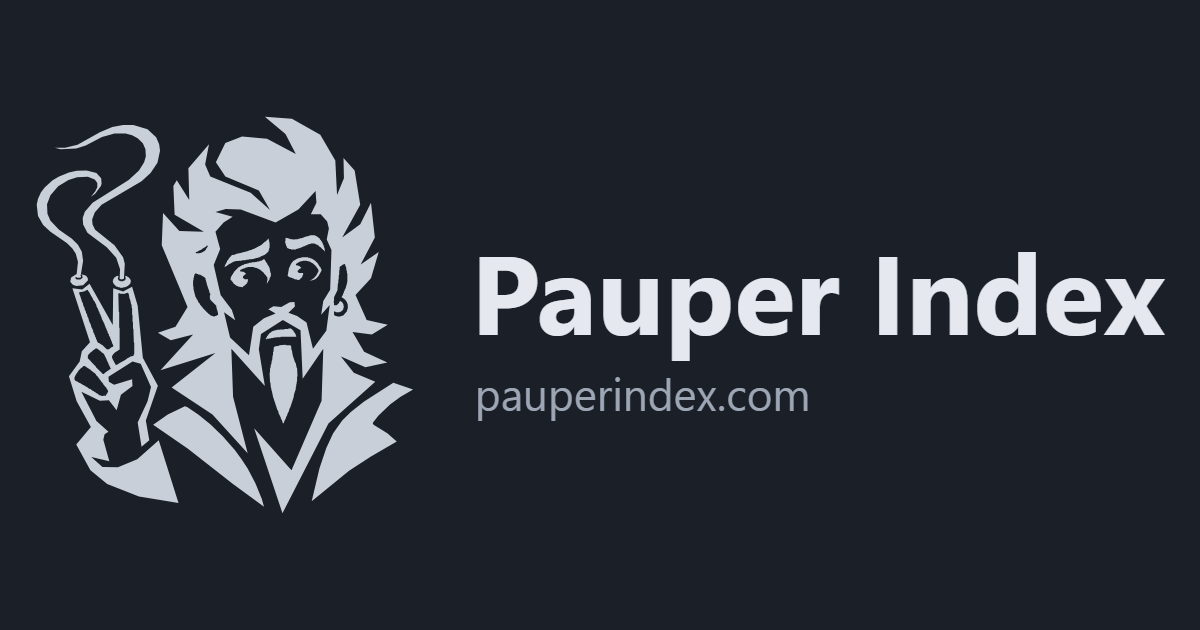
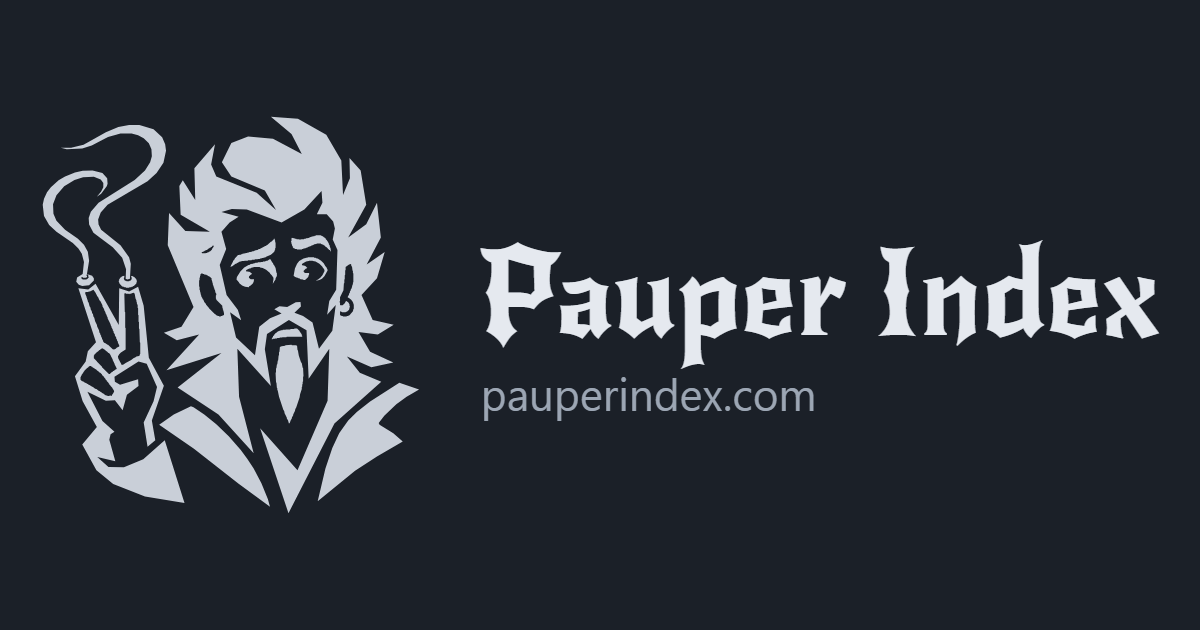
Testata: "Carta dimenticata" come pulsante compatto; nome del sito in New Rocker
- "Carta dimenticata": pulsante pieno e in rilievo con piumino e ragnatela, etichetta breve
  sotto i 400 px, premuto sulla propria pagina; "Informazioni" link discreto.
- Nome "Pauper Index" in New Rocker (SIL OFL 1.1) solo nel titolo e nell'og-image:
  ridotto ai caratteri del nome e rinominato "Pauper Index Title" (Reserved Font Name),
  servito dal sito con la licenza in public/fonts/; CSP invariata.

Changed region(s): [[0.0308, 0.2111, 0.3392, 0.8143], [0.4008, 0.3921, 0.9867, 0.6635], [0.185, 0.181, 0.2775, 0.2413]]

diff --git a/web/src/style.css b/web/src/style.css
@@ -39,15 +39,42 @@ a{color:var(--accent)}
 .num{font-variant-numeric:tabular-nums}
 .note{color:var(--muted);font-size:.8125rem;margin:6px 0 0}
 
+/* nome del sito: New Rocker (SIL OFL 1.1) ridotto ai caratteri di "Pauper Index" e rinominato
+   (Reserved Font Name), servito dal sito; licenza in public/fonts/OFL-NewRocker.txt */
+@font-face{font-family:"Pauper Index Title";src:url("/fonts/pauper-index-title.woff2") format("woff2");font-weight:400;font-style:normal;font-display:swap}
+
 /* testata */
 .top{display:flex;justify-content:space-between;align-items:center;gap:12px;flex-wrap:wrap}
 h1{font-size:clamp(1.75rem,4.5vw,2.5rem);line-height:1;letter-spacing:-0.03em;font-weight:700;margin:0}
 h1 a{color:inherit;text-decoration:none}
+.home .brand{font-family:"Pauper Index Title",var(--font);font-weight:400;letter-spacing:.01em}
 .home{display:inline-flex;align-items:center;gap:.28em}
 .logo{width:1.2em;height:1.2em;flex:none;color:var(--logo)}
 .nav{display:flex;gap:4px;align-items:center;font-size:.9375rem}
-.nav a{font-weight:500;padding:6px}
-.nav a[aria-current="page"]{color:var(--ink);text-decoration-thickness:2px;text-underline-offset:4px}
+.nav{gap:6px}
+/* "Informazioni": link discreto */
+.navlink{font-weight:500;padding:6px;color:var(--muted);text-decoration:none}
+.navlink:hover,.navlink[aria-current="page"]{color:var(--ink);text-decoration:underline;text-decoration-thickness:2px;text-underline-offset:4px}
+/* "Carta dimenticata": pulsante compatto nello stile del pulsante grande della pagina */
+.navdust{position:relative;overflow:hidden;display:inline-flex;align-items:center;gap:6px;min-height:38px;padding:5px 16px 5px 10px;margin:0 4px 4px 0;
+  border-radius:10px;text-decoration:none;font-weight:650;white-space:nowrap;color:var(--accent-ink);
+  background:linear-gradient(180deg,color-mix(in srgb,var(--accent) 82%,#fff) 0%,var(--accent) 55%,color-mix(in srgb,var(--accent) 88%,#000) 100%);
+  box-shadow:0 3px 0 var(--btn-ledge),0 7px 14px -8px rgba(10,20,40,.55),inset 0 1px 0 rgba(255,255,255,.3);transition:transform .08s,box-shadow .08s,filter .15s}
+.navdust:hover{filter:brightness(1.07)}
+.navdust:active,.navdust[aria-current="page"]{transform:translateY(2px);box-shadow:0 1px 0 var(--btn-ledge),0 4px 8px -6px rgba(10,20,40,.5),inset 0 1px 0 rgba(255,255,255,.25)}
+.navdust:focus-visible{outline:3px solid var(--ink);outline-offset:3px}
+.nd-ico{width:20px;height:20px;flex:none;overflow:visible;transform-origin:3px 21px}
+.nd-ico .handle{fill:none;stroke:currentColor;stroke-width:2.2;stroke-linecap:round}
+.nd-ico .collar{fill:none;stroke:currentColor;stroke-width:3.4;stroke-linecap:round}
+.nd-ico .plume{fill:currentColor}
+.nd-ico .p2{opacity:.8}
+.nd-ico .p3{opacity:.65}
+.nd-web{position:absolute;top:0;right:0;width:20px;height:20px;transform:scaleX(-1);pointer-events:none;fill:none;stroke:var(--btn-web);stroke-width:1.1;stroke-linecap:round}
+.nd-short{display:none}
+.navdust:hover .nd-web{animation:nd-sway 1.4s ease-in-out infinite alternate;transform-origin:100% 0}
+.navdust:hover .nd-ico{animation:duster-wiggle .7s ease-in-out}
+@keyframes nd-sway{from{transform:scaleX(-1) rotate(-4deg)}to{transform:scaleX(-1) rotate(5deg) scale(1.06)}}
+@media (prefers-reduced-motion: reduce){.navdust:hover .nd-web,.navdust:hover .nd-ico{animation:none}.navdust{transition:none}}
 .langs{display:inline-flex}
 .langs .btn{padding-inline:6px;min-width:34px;justify-content:center}
 .langs .btn[aria-pressed="true"]{color:var(--ink);font-weight:700;text-decoration:underline;text-underline-offset:3px}
@@ -401,8 +428,8 @@ details.mini[open]{flex-basis:100%;background:var(--surface);border:1px solid va
   .search{margin-left:0;width:100%}
   .top{flex-wrap:wrap;row-gap:2px}
   h1{font-size:1.625rem;white-space:nowrap}
-  .nav{font-size:.875rem;flex-wrap:wrap;row-gap:0;margin-left:-6px}
-  .nav a{white-space:nowrap}
+  .nav{font-size:.875rem;flex-wrap:wrap;row-gap:4px;margin-left:0;margin-top:6px}
+  .navdust{min-height:40px}
   .nav .btn{white-space:nowrap}
   .f-field:first-child{flex:1;min-width:0}
   .f-field:first-child select{flex:1;min-width:0;width:100%}
@@ -424,6 +451,10 @@ details.mini[open]{flex-basis:100%;background:var(--surface);border:1px solid va
   .sheet-body{grid-template-columns:1fr}
   .active-card img{max-width:min(240px,60vw)}
   .fan-item img{width:64px}
+}
+@media (max-width:400px){
+  .nd-full{display:none}
+  .nd-short{display:inline}
 }
 @media (max-width:640px){
   .cards thead{display:none}

diff --git a/web/e2e/smoke.spec.ts b/web/e2e/smoke.spec.ts
@@ -45,6 +45,11 @@ test('lingua del browser, testi statici, area di caricamento, filtri e lista, co
   await expect(page.locator(`[data-lang="${L}"]`)).toHaveAttribute('aria-pressed', 'true');
   await expect(page.locator('meta[http-equiv="Content-Security-Policy"]')).toHaveCount(1);
   await expect(page.locator('h1')).toHaveText('Pauper Index');
+  // nome del sito in New Rocker ridotto, servito dal sito (con la licenza); il resto della pagina nel font di sistema
+  expect(await page.locator('h1 .brand').evaluate((el) => getComputedStyle(el).fontFamily)).toContain('Pauper Index Title');
+  expect(await page.locator('#verdict').evaluate((el) => getComputedStyle(el).fontFamily)).not.toContain('Pauper Index Title');
+  expect(await page.evaluate(async () => (await document.fonts.load('400 40px "Pauper Index Title"', 'Pauper Index')).length)).toBe(1);
+  expect((await page.request.get('fonts/OFL-NewRocker.txt')).ok()).toBe(true);
   await expect(page).toHaveTitle('Pauper Index');
   await expect(page.locator('#navAbout')).toHaveText(tr('nav.about'));
   await expect(page.locator('#drop strong')).toHaveText(tr('load.dropTitle'));
@@ -605,7 +610,16 @@ test('"Carta dimenticata": pagina dalla testata, scena, animazione che poi spari
   const problems = await setup(page);
   // non è più nella zona del controllo rapido
   await expect(page.locator('#quick #dustBtn')).toHaveCount(0);
-  await expect(page.locator('#navDust')).toHaveText(tr('nav.dust'));
+  await expect(page.locator('#navDust')).toHaveAccessibleName(tr('nav.dust'));
+  // nella testata è un pulsante compatto (pieno di colore, con icona e ragnatela), "Informazioni" un link discreto
+  await expect(page.locator('#navDust .nd-ico')).toHaveCount(1);
+  await expect(page.locator('#navDust .nd-web')).toHaveCount(1);
+  expect(await page.locator('#navDust').evaluate((el) => getComputedStyle(el).backgroundImage)).toContain('gradient');
+  expect(await page.locator('#navAbout').evaluate((el) => getComputedStyle(el).backgroundImage)).toBe('none');
+  // etichetta breve solo sugli schermi stretti
+  const short = await page.locator('#navDust .nd-short').isVisible();
+  expect(short).toBe((page.viewportSize()?.width ?? 1280) <= 400);
+  await expect(page.locator('#navDust ' + (short ? '.nd-short' : '.nd-full'))).toHaveText(tr(short ? 'nav.dustShort' : 'nav.dust'));
   await page.click('#navDust');
   await expect(page).toHaveURL(/#carta-dimenticata$/);
   await expect(page.locator('#viewMain')).toBeHidden();
@@ -660,6 +674,9 @@ test('"Carta dimenticata": pagina dalla testata, scena, animazione che poi spari
 test('"Carta dimenticata" con prefers-reduced-motion: la carta appare subito, senza copertura', async ({ page }) => {
   await page.emulateMedia({ reducedMotion: 'reduce' });
   await setup(page);
+  // la ragnatela del pulsante in testata resta ferma al passaggio del mouse
+  await page.hover('#navDust');
+  expect(await page.locator('#navDust .nd-web').evaluate((el) => getComputedStyle(el).animationName)).toBe('none');
   await page.click('#navDust');
   // ragnatele del pulsante ferme anche al passaggio del mouse
   await page.hover('#dustBtn');

diff --git a/web/index.html b/web/index.html
@@ -12,6 +12,7 @@
 <link rel="canonical" href="https://pauperindex.com/">
 <link rel="manifest" href="/manifest.webmanifest">
 <link rel="icon" href="/icon.svg" type="image/svg+xml">
+<link rel="preload" href="/fonts/pauper-index-title.woff2" as="font" type="font/woff2" crossorigin>
 <link rel="apple-touch-icon" href="/apple-touch-icon.png">
 <meta property="og:type" content="website">
 <meta property="og:site_name" content="Pauper Index">
@@ -34,10 +35,21 @@
 <div class="wrap">
 
   <header class="top">
-    <h1><a href="#" class="home"><svg class="logo" aria-hidden="true" focusable="false"><use href="/logo.svg#logo"></use></svg>Pauper Index</a></h1>
+    <h1><a href="#" class="home"><svg class="logo" aria-hidden="true" focusable="false"><use href="/logo.svg#logo"></use></svg><span class="brand">Pauper Index</span></a></h1>
     <nav class="nav" data-i18n-aria="nav.aria" aria-label="Navigazione">
-      <a href="#carta-dimenticata" id="navDust" data-i18n="nav.dust">Carta dimenticata</a>
-      <a href="#informazioni" id="navAbout" data-i18n="nav.about">Informazioni</a>
+      <a href="#carta-dimenticata" id="navDust" class="navdust" data-i18n-aria="nav.dust" aria-label="Carta dimenticata">
+        <svg class="nd-ico" viewBox="0 0 24 24" aria-hidden="true" focusable="false">
+          <path class="handle" d="M3 21.2l6.4-6.4"/>
+          <path class="collar" d="M8.4 13.9l1.9 1.9"/>
+          <path class="plume p1" d="M10.6 13.4C8.9 9 10.7 4.6 15.4 2.3c1 4.6-.8 8.8-4.8 11.1z"/>
+          <path class="plume p2" d="M10.6 13.4c4.4 1.7 8.8 0 11.1-4.8-4.6-1-8.8.8-11.1 4.8z"/>
+          <path class="plume p3" d="M10.6 13.4c.9-4.1 3.9-7.6 8.6-9.1.5 4.2-2.6 7.9-8.6 9.1z"/>
+        </svg>
+        <span class="nd-full" data-i18n="nav.dust">Carta dimenticata</span>
+        <span class="nd-short" data-i18n="nav.dustShort">Dimenticata</span>
+        <svg class="nd-web" viewBox="0 0 26 26" aria-hidden="true" focusable="false"><path d="M1 1L25 1M1 1L18.6 8.1M1 1L15.3 16.4M1 1L7.7 17.7M1 1L1 25M7 1Q5.9 2 6.6 3.2M6.6 3.2Q5.2 3.9 5.1 5.4M5.1 5.4Q3.7 5.3 3.2 6.6M3.2 6.6Q2 5.9 1 7M12 1Q10.1 2.8 11.2 5.1M11.2 5.1Q8.6 6.2 8.5 9M8.5 9Q6 8.8 5.1 11.2M5.1 11.2Q2.8 10.1 1 12M17.5 1Q14.6 3.6 16.3 7.2M16.3 7.2Q12.4 8.9 12.3 13.1M12.3 13.1Q8.4 12.7 7.2 16.3M7.2 16.3Q3.6 14.6 1 17.5"/></svg>
+      </a>
+      <a href="#informazioni" id="navAbout" class="navlink" data-i18n="nav.about">Informazioni</a>
       <span class="langs" role="group" data-i18n-aria="nav.lang" aria-label="Lingua">
         <button class="btn quiet small" type="button" data-lang="it" lang="it" aria-label="Italiano">IT</button>
         <button class="btn quiet small" type="button" data-lang="en" lang="en" aria-label="English">EN</button>

diff --git a/web/src/i18n/en.ts b/web/src/i18n/en.ts
@@ -7,6 +7,7 @@ export const en: Record<Key, Msg> = {
   'nav.aria': 'Navigation',
   'nav.about': 'About',
   'nav.dust': 'Forgotten card',
+  'nav.dustShort': 'Forgotten',
   'nav.lang': 'Language',
   'theme.toDark': 'Dark theme',
   'theme.toLight': 'Light theme',

diff --git a/web/src/i18n/it.ts b/web/src/i18n/it.ts
@@ -9,6 +9,7 @@ export const it = {
   'nav.aria': 'Navigazione',
   'nav.about': 'Informazioni',
   'nav.dust': 'Carta dimenticata',
+  'nav.dustShort': 'Dimenticata',
   'nav.lang': 'Lingua',
   'theme.toDark': 'Tema scuro',
   'theme.toLight': 'Tema chiaro',

diff --git a/web/scripts/title-font.py b/web/scripts/title-font.py
@@ -1,0 +1,49 @@
+"""Font del nome "Pauper Index" (testata e og-image): New Rocker ridotto ai soli caratteri del titolo.
+
+New Rocker è sotto SIL Open Font License 1.1 con Reserved Font Name "New Rocker": la versione ridotta è
+una "Modified Version", quindi il nome interno del font cambia in "Pauper Index Title". Copyright e
+licenza restano nella tabella dei nomi; il testo della licenza è in public/fonts/OFL-NewRocker.txt.
+
+Uso (fonttools non è una dipendenza del progetto: si installa in un ambiente temporaneo):
+    python -m venv <tmp>/ft; <tmp>/ft/Scripts/pip install fonttools brotli
+    <tmp>/ft/Scripts/python web/scripts/title-font.py <NewRocker-Regular.ttf>
+Il file sorgente è https://github.com/google/fonts/blob/main/ofl/newrocker/NewRocker-Regular.ttf
+"""
+
+import sys
+from pathlib import Path
+
+from fontTools import subset
+from fontTools.ttLib import TTFont
+
+TEXT = "Pauper Index"
+FAMILY = "Pauper Index Title"
+OUT = Path(__file__).resolve().parents[1] / "public" / "fonts" / "pauper-index-title.woff2"
+
+
+def main(src: str) -> None:
+    font = TTFont(src)
+    opts = subset.Options()
+    opts.flavor = "woff2"
+    opts.layout_features = ["kern", "liga"]
+    opts.name_IDs = [0, 1, 2, 3, 4, 5, 6, 13, 14]  # copyright, nomi, versione, licenza
+    opts.notdef_outline = True
+    sub = subset.Subsetter(opts)
+    sub.populate(text=TEXT)
+    sub.subset(font)
+    # Reserved Font Name: la versione modificata non può chiamarsi "New Rocker"
+    names = {1: FAMILY, 2: "Regular", 3: f"{FAMILY} Regular; subset", 4: f"{FAMILY} Regular",
+             6: FAMILY.replace(" ", "") + "-Regular"}
+    for rec in list(font["name"].names):
+        if rec.nameID in (16, 17, 21, 22):
+            font["name"].removeNames(nameID=rec.nameID)
+        elif rec.nameID in names:
+            rec.string = names[rec.nameID]
+    OUT.parent.mkdir(parents=True, exist_ok=True)
+    font.save(OUT)
+    left = [r.toUnicode() for r in font["name"].names if "rocker" in r.toUnicode().lower() and r.nameID not in (0, 13, 14)]
+    print(OUT, OUT.stat().st_size, "byte", "nomi con 'New Rocker' fuori da copyright/licenza:", left)
+
+
+if __name__ == "__main__":
+    main(sys.argv[1])

diff --git a/CLAUDE.md b/CLAUDE.md
@@ -31,9 +31,11 @@ La specifica completa è in `docs/SPEC.md`. Questo file registra le decisioni pr
   - [x] "Carica altri" (10 carte alla volta) e "Rispolvera una carta" (vedi le sezioni omonime), prima della funzione 4
   - [x] 2026-10-07: simboli delle espansioni (vedi "Simboli delle espansioni"), stampa del set nella vista per espansione e "Rispolvera" spostata nella pagina "Carta dimenticata"
   - [x] 2026-10-07: riepiloghi coerenti con l'elenco (vedi "Riepiloghi ed elenco") e pulsante "Rispolvera una carta" in rilievo, con le ragnatele
+  - [x] 2026-10-07: "Carta dimenticata" in testata come pulsante compatto (vedi "Testata")
+  - [x] 2026-10-07: nome "Pauper Index" in New Rocker, scelto dall'utente (vedi "Testata")
   - [ ] Funzione 4: mazzi che puoi costruire (vedi "Prossimi passi")
 - **Opzioni tolte su richiesta**: "Escludi terre base" (le terre base sono sempre escluse) e "Conta le copie" (una carta è posseduta se ne hai almeno una copia).
-- **Test** (tutti verdi dopo riepiloghi coerenti e nuovo pulsante, 2026-10-07): 96 pytest, 58 Vitest, 86 Playwright (più 2 saltati di proposito) sui quattro progetti desktop/mobile × IT/EN.
+- **Test** (tutti verdi dopo pulsante in testata e font del nome, 2026-10-07): 96 pytest, 58 Vitest, 86 Playwright (più 2 saltati di proposito) sui quattro progetti desktop/mobile × IT/EN.
 - **Dependabot**: unita la PR #1 (pytest 8.4.2 → 9.1.1), con tutti i test verdi.
 - **Issue**: #4 (test intermittente in CI) chiusa con la correzione del blur nei campi con suggerimenti.
 
@@ -124,6 +126,7 @@ npm run screenshots                  # con preview attivo: schermate in .cache/s
 npm run dust-frames                  # con preview attivo: fotogrammi dell'animazione "Rispolvera" in .cache/screenshots/
 node scripts/feature-shots.mjs <etichetta>   # con preview attivo: espansioni e "Carta dimenticata", desktop/mobile/scuro
 node scripts/dust-button-shots.mjs <etichetta>   # con preview attivo: pulsante "Rispolvera", desktop/mobile, chiaro/scuro
+node scripts/header-shots.mjs <etichetta>        # con preview attivo: testata, desktop/mobile/mobile piccolo, chiaro/scuro, IT/EN, con focus
 npm run icons                        # rigenera logo, favicon, icone PNG e og-image da logo/logo.svg
 
 # Stato della CI
@@ -436,7 +439,7 @@ Tolti: la barra a segmenti (heatmap), la sezione "Cosa conta", i preset a schede
   - inietta la CSP (meta tag) **solo in build**, perché il dev server di Vite usa stili inline.
 
 **Decisioni**:
-- **Font di sistema** al posto di Geist: nessuna richiesta esterna e nessun file di font da servire.
+- **Font di sistema** al posto di Geist: nessuna richiesta esterna. Unica eccezione (2026-10-07): il nome "Pauper Index" in New Rocker ridotto, servito dal sito (vedi "Testata").
 - **CSP**: `default-src 'self'; script-src 'self'; style-src 'self'; img-src 'self' https://cards.scryfall.io data:; connect-src 'self'; font-src 'self'; manifest-src 'self'; worker-src 'none'; object-src 'none'; base-uri 'self'; form-action 'none'`. `<meta name="referrer" content="no-referrer">`, così le richieste di immagini a Scryfall non rivelano la pagina.
 - **Ruoli dei gruppi**: solo "Inclusa" o "Esclusa" (in "Binder inclusi"). Binder di tipo `deck` o `list` sono esclusi di default; il testo incollato è un gruppo "Testo incollato" che conta come posseduto.
 - **Abbinamento di una riga**:
@@ -534,6 +537,22 @@ Tolti: la barra a segmenti (heatmap), la sezione "Cosa conta", i preset a schede
 - **Animazione** (circa 1,5 s, invariata): copertura `.dust-cover` con velo di polvere (rumore SVG), granelli, fiocchi e tre ragnatele generate a caso, spazzati via con una maschera diagonale. Solo elementi sovrapposti: l'immagine non ha mai filtri (regole di Scryfall); a fine animazione la copertura viene rimossa. Parte quando l'immagine è caricata. Con `prefers-reduced-motion` nessuna copertura sulla carta. CSP invariata: i valori casuali passano da `style.setProperty`.
 - Fotogrammi di controllo: `npm run dust-frames` (desktop e mobile, 5 istanti più la fine, dalla pagina `#carta-dimenticata`).
 
+## Testata (2026-10-07)
+
+- **"Carta dimenticata"** (`#navDust`, classe `navdust`) è un pulsante compatto nello stile del pulsante grande della pagina:
+  - pieno di colore, in rilievo (`--btn-ledge`), con l'icona del piumino e una piccola ragnatela fissa nell'angolo in alto a destra (`.nd-web`), che oscilla al passaggio del mouse;
+  - sulla propria pagina appare premuto (`aria-current="page"`);
+  - focus: contorno di 3 px nel colore del testo;
+  - con `prefers-reduced-motion` niente movimento.
+- Nome accessibile da `aria-label` (`nav.dust`). Fino a 400 px di larghezza compare l'etichetta breve (`nav.dustShort`: "Dimenticata" / "Forgotten") al posto di quella piena.
+- **"Informazioni"** (`.navlink`) è un link discreto: colore attenuato, sottolineato solo al passaggio del mouse o sulla propria pagina.
+- **Font del nome: New Rocker** (scelto dall'utente il 2026-10-07 tra Grenze Gotisch, Fruktur, Pirata One, Metal Mania, New Rocker e Germania One; scartati i due Unifraktur, dove la "I" diventa "J").
+  - Usato **solo** per "Pauper Index" nel titolo della testata (`h1 .brand`) e nell'og-image; il resto del sito resta nel font di sistema.
+  - **Licenza**: SIL OFL 1.1 con Reserved Font Name "New Rocker". La versione ridotta è una "Modified Version", quindi il suo nome interno è **"Pauper Index Title"** (anche in CSS) e "New Rocker" compare solo in copyright e licenza. Testo della licenza in `web/public/fonts/OFL-NewRocker.txt`, pubblicato anche nel sito accanto al font.
+  - **File**: `web/public/fonts/pauper-index-title.woff2`, 7,6 KB, con i soli glifi di "Pauper Index" (11, più `.notdef`). Il grosso del peso è il testo della licenza, lasciato dentro il font. Servito dal sito con `font-display: swap` e `<link rel="preload">`; CSP invariata (`font-src 'self'`).
+  - **Rigenerare** (solo se cambia il testo del titolo): `web/scripts/title-font.py` con fonttools in un ambiente virtuale temporaneo (fonttools non è una dipendenza del progetto); sorgente `NewRocker-Regular.ttf` dal repository google/fonts. Il testo da coprire è la costante `TEXT`: un carattere nuovo nel titolo non sarebbe coperto.
+  - **og-image**: `npm run icons` carica lo stesso file con `FontFace` per disegnare "Pauper Index"; "pauperindex.com" resta nel font di sistema.
+
 ## Riepiloghi ed elenco (2026-10-07)
 
 - **Regola**: ogni riepilogo conta esattamente l'insieme che l'elenco può mostrare; se i filtri dell'elenco ne mostrano un altro, lo si dice.
@@ -619,7 +638,7 @@ Tolti: la barra a segmenti (heatmap), la sezione "Cosa conta", i preset a schede
 - **`npm run icons`** (`web/scripts/icons.mjs`) genera tutto da lì, senza dipendenze in più: tracciato compattato (coordinate relative, viewBox ritagliato), PNG disegnate in un canvas di Chromium e salvate come PNG indicizzate con zlib al massimo.
   - `public/logo.svg`: `<symbol id="logo">` con `fill="currentColor"`, usato in testata con `<svg class="logo"><use href="/logo.svg#logo">`; il colore viene da `--logo` (`#555555` chiaro, `#C9CFD8` scuro), quindi segue anche il tema scelto a mano;
   - `public/icon.svg`: favicon con `prefers-color-scheme` (stessi due colori);
-  - `apple-touch-icon.png` (180, quadrato pieno), `icon-192/512.png` (angoli arrotondati), `icon-maskable-512.png` (logo al 56%, dentro l'area sicura), `og-image.png` (1200×630, logo + "Pauper Index" + dominio): tutte su sfondo scuro `#1B2028` con il logo `#C9CFD8`.
+  - `apple-touch-icon.png` (180, quadrato pieno), `icon-192/512.png` (angoli arrotondati), `icon-maskable-512.png` (logo al 56%, dentro l'area sicura), `og-image.png` (1200×630, logo + "Pauper Index" in New Rocker + dominio): tutte su sfondo scuro `#1B2028` con il logo `#C9CFD8`.
 - **Varianti scelte dall'utente**: in tema scuro il logo diventa grigio chiaro senza riquadro; icone della schermata Home su sfondo scuro. Il testo dell'og-image usa il font di sistema della macchina che rigenera (Segoe UI su Windows).
 
 ## Donazioni (2026-10-06)
